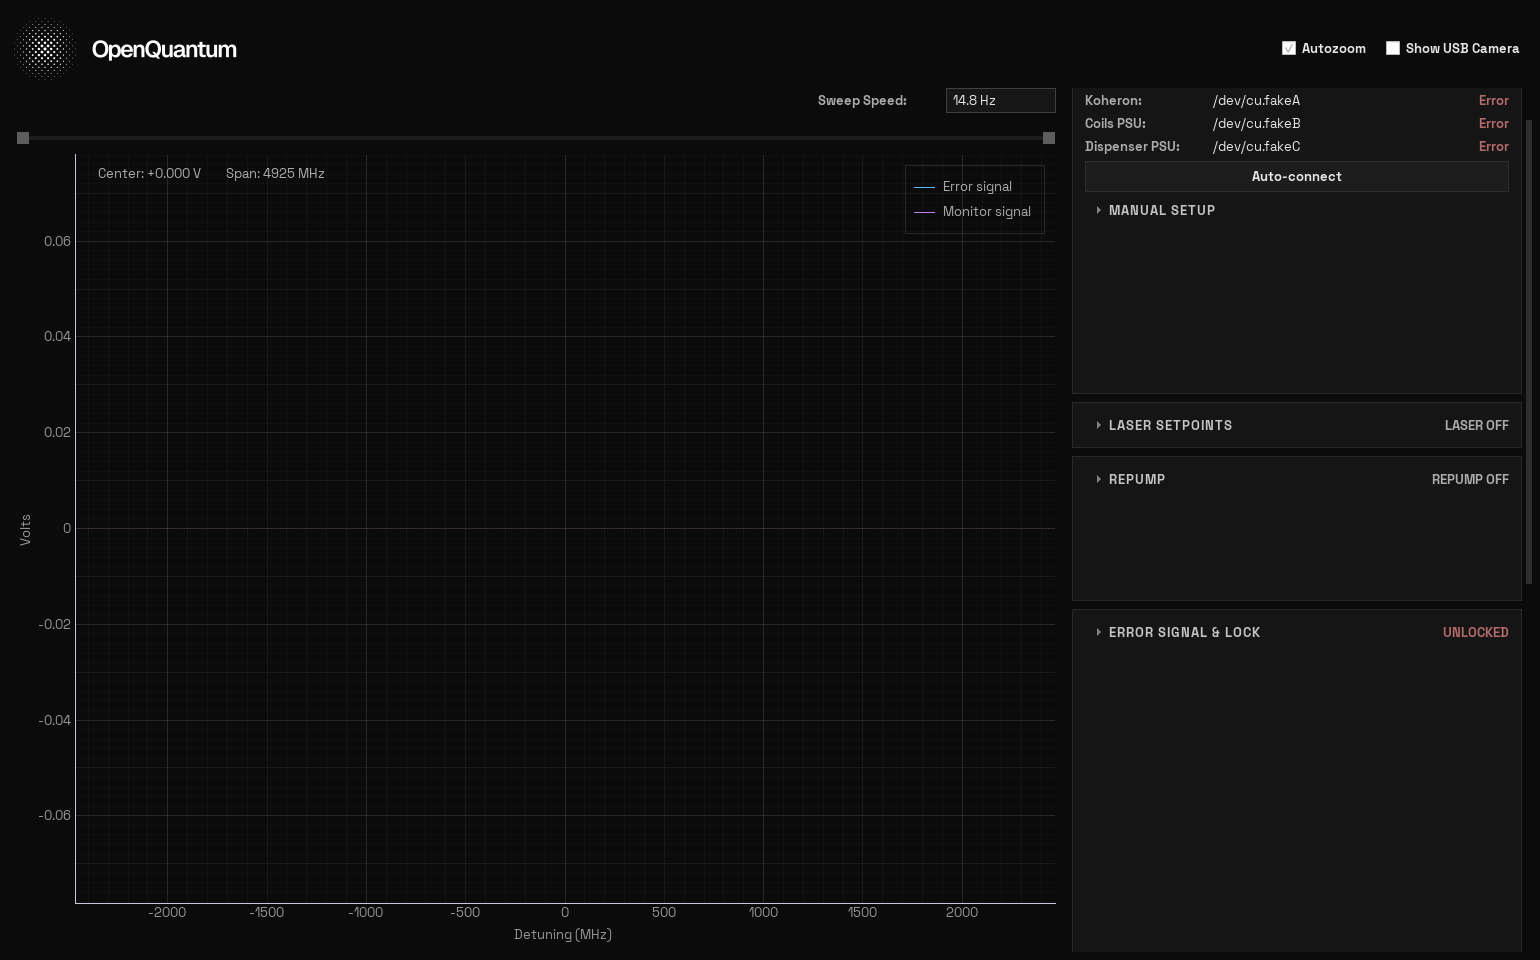
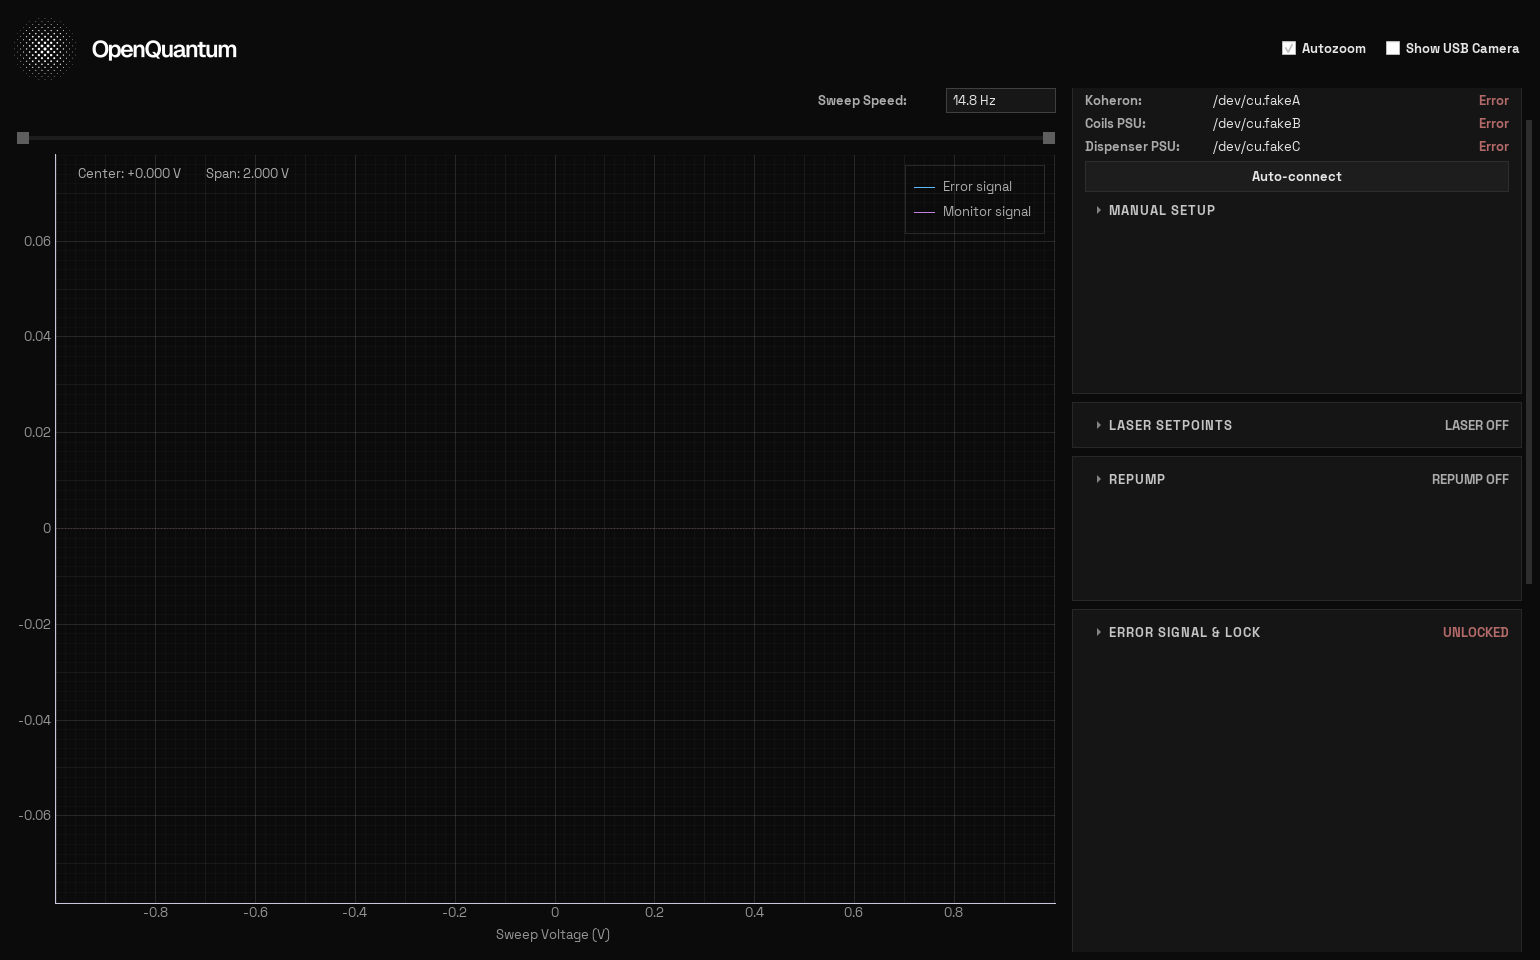
Plot sweep voltage on x; drop the y-axis label
The x axis was converting sweep volts to detuning via V_TO_GHZ, an
estimate from the Koheron tuning coefficients. Volts is what the sweep
slider and the lock region are actually set in, so the axis now shows
that directly. The centre/span overlay follows.

The y label is removed -- the tick values carry it. The SI prefix stays
disabled so pyqtgraph does not rescale the ticks and leave a "(x0.001)"
multiplier where the label used to be.

diff --git a/mot_control.py b/mot_control.py
@@ -1212,10 +1212,9 @@ class OpenQuantumControlsWindow(QtWidgets.QMainWindow):
                 background: #383838;
             }
         """)
-        self.linien_widget = LinienWidget(
-            linien_host=self._rp_host,
-            v_to_freq_ghz=V_TO_GHZ,
-        )
+        # No v_to_freq_ghz: the x axis stays in sweep volts, which is what
+        # the sweep slider and the lock region are actually set in.
+        self.linien_widget = LinienWidget(linien_host=self._rp_host)
         # Built by the Linien widget (it owns the range logic) but shown in
         # the header beside the camera toggle, with the other view controls.
         self._header_row.insertWidget(

diff --git a/linien_widget.py b/linien_widget.py
@@ -88,9 +88,9 @@ class LinienWidget(QtWidgets.QWidget):
         self.plot.showGrid(x=True, y=True, alpha=0.15)
         style_plot_axes(self.plot)
 
-        self.plot.setLabel("left", "Volts", **plot_label_style())
-        # The error signal is a fraction of a volt; pyqtgraph would rescale
-        # the axis and append a "(x0.001)" multiplier to the label.
+        # No left-axis label; the tick values speak for themselves. The SI
+        # prefix stays off so pyqtgraph does not rescale the ticks and put
+        # a "(x0.001)" multiplier where the label would have been.
         self.plot.getAxis("left").enableAutoSIPrefix(False)
 
         if self._v_to_mhz is not None:
